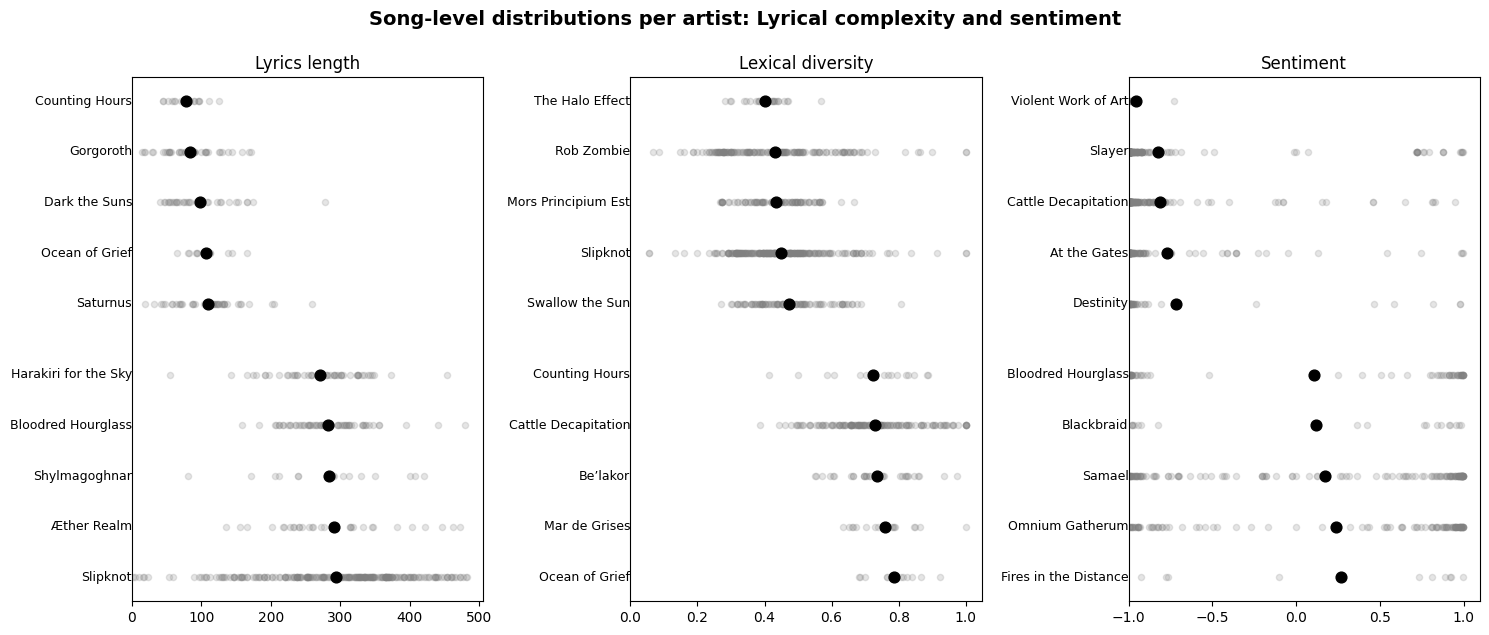
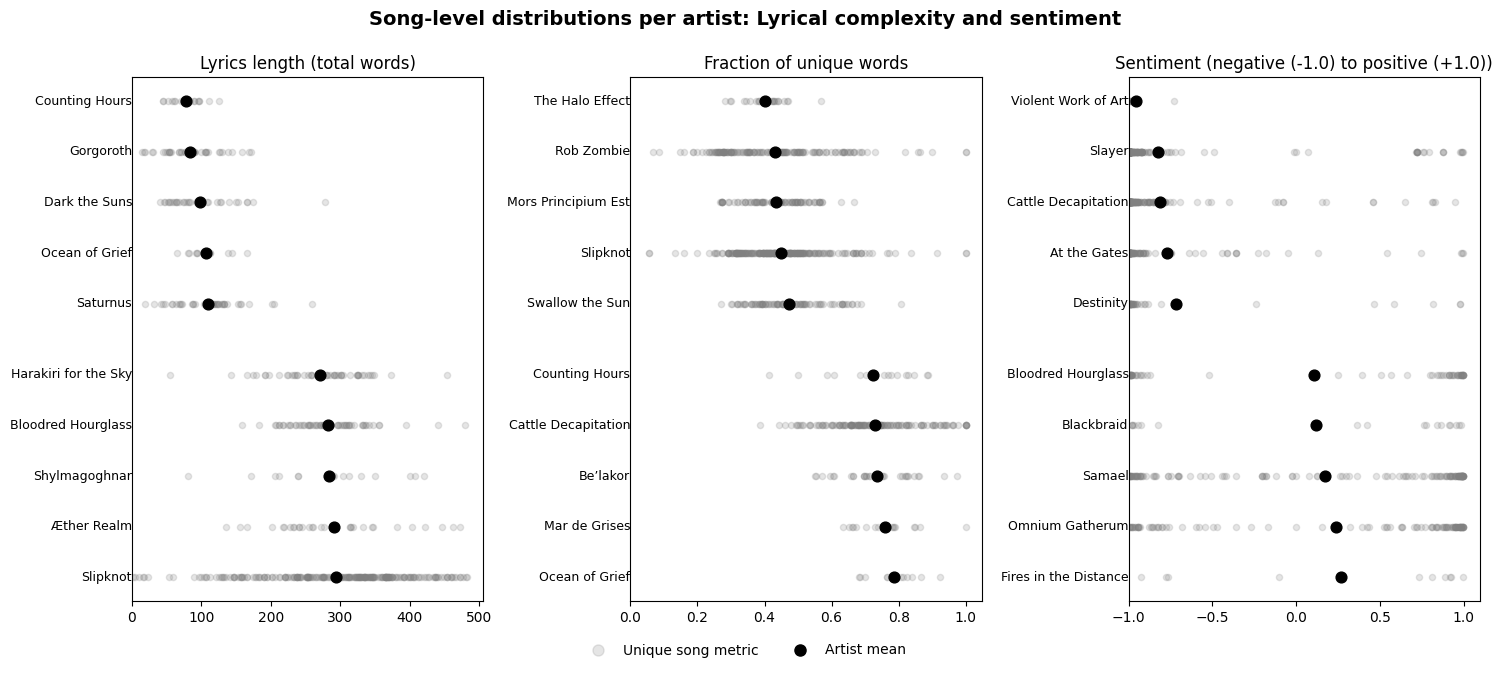
Added legend and improved subplot titles

diff --git a/projects/compare_lyrics/1_visualise_artists.py b/projects/compare_lyrics/1_visualise_artists.py
@@ -11,6 +11,7 @@ import sys
 PROJECT_ROOT = Path(__file__).resolve().parent.parent.parent
 sys.path.append(str(PROJECT_ROOT))
 
+from matplotlib.lines import Line2D
 import matplotlib.pyplot as plt
 import pandas as pd
 
@@ -83,7 +84,15 @@ for i, col in enumerate(song_columns):
         ax.scatter(mean_val, y, color='black', s=60, zorder=3)
 
     # Axis styling
-    ax.set_title(col.replace('_', ' ').capitalize())
+    # Title
+    match col:
+        case 'lyrics_length':
+            ax.set_title('Lyrics length (total words)')
+        case 'lexical_diversity':
+            ax.set_title('Fraction of unique words')
+        case 'sentiment':
+            ax.set_title('Sentiment (negative (-1.0) to positive (+1.0))')
+
     if col == 'sentiment':
         ax.set_xlim(left=-1)
     else:
@@ -97,6 +106,25 @@ for i, col in enumerate(song_columns):
 # Finish up
 fig.text(0.5, 1.05, "Song-level distributions per artist: Lyrical complexity and sentiment",
          ha='center', va='top', fontsize=14, weight='bold')
+
+# Define custom legend handles
+legend_elements = [
+    Line2D([0], [0], marker='o', color='grey', alpha=0.2, linestyle='None',
+           markersize=8, label='Unique song metric'),
+    Line2D([0], [0], marker='o', color='black', linestyle='None',
+           markersize=8, label='Artist mean')
+]
+
+fig.legend(
+    handles=legend_elements,
+    loc='lower center',
+    ncol=2,
+    frameon=False,
+    bbox_to_anchor=(0.5, -0.05)  # x=0.5 centers it, y=-0.05 pushes it lower
+)
+
+fig.subplots_adjust(bottom=0.25)  # increase to make room for the legend
+
 plt.tight_layout()
 plt.show()
 
@@ -143,15 +171,27 @@ for i, col in enumerate(emotion_columns):
         ax.scatter(row[col], y, color='black', edgecolor='white', s=80, zorder=2)
 
     # Axis styling
-    ax.set_title(col.replace('emotion_', '').capitalize())
-    ax.set_xlim(left=0, right=col_max*1.05)
+    match col:
+        case 'perspective':
+            ax.set_title('Perspective (use of $\it{we}$ (0.0) vs $\it{you}$ (1.0))')
+        case 'directness':
+            ax.set_title('Directedness (use of $\it{you}$)')
+        case 'emotion_joy':
+            ax.set_title('Joy')
+        case 'emotion_anger':
+            ax.set_title('Anger')
+        case 'emotion_sadness':
+            ax.set_title('Sadness')
+    
+    # ax.set_title(col.replace('emotion_', '').capitalize())
+    ax.set_xlim(left=0, right=col_max * 1.05)
     ax.set_yticks([])
     ax.set_yticklabels([])
     for artist, y in artist_positions.items():
         ax.text(x=0, y=y, s=artist, va='center', ha='right', fontsize=9)
     ax.invert_yaxis()
     
-fig.text(0.5, 1.05, "Artist-level profiles: Use of pronouns, and emotional expression",
+fig.text(0.5, 1.05, "Artist-level profiles: Lyrical use of pronouns and emotional expression",
          ha='center', va='top', fontsize=14, weight='bold')
 plt.tight_layout()
 plt.show()
